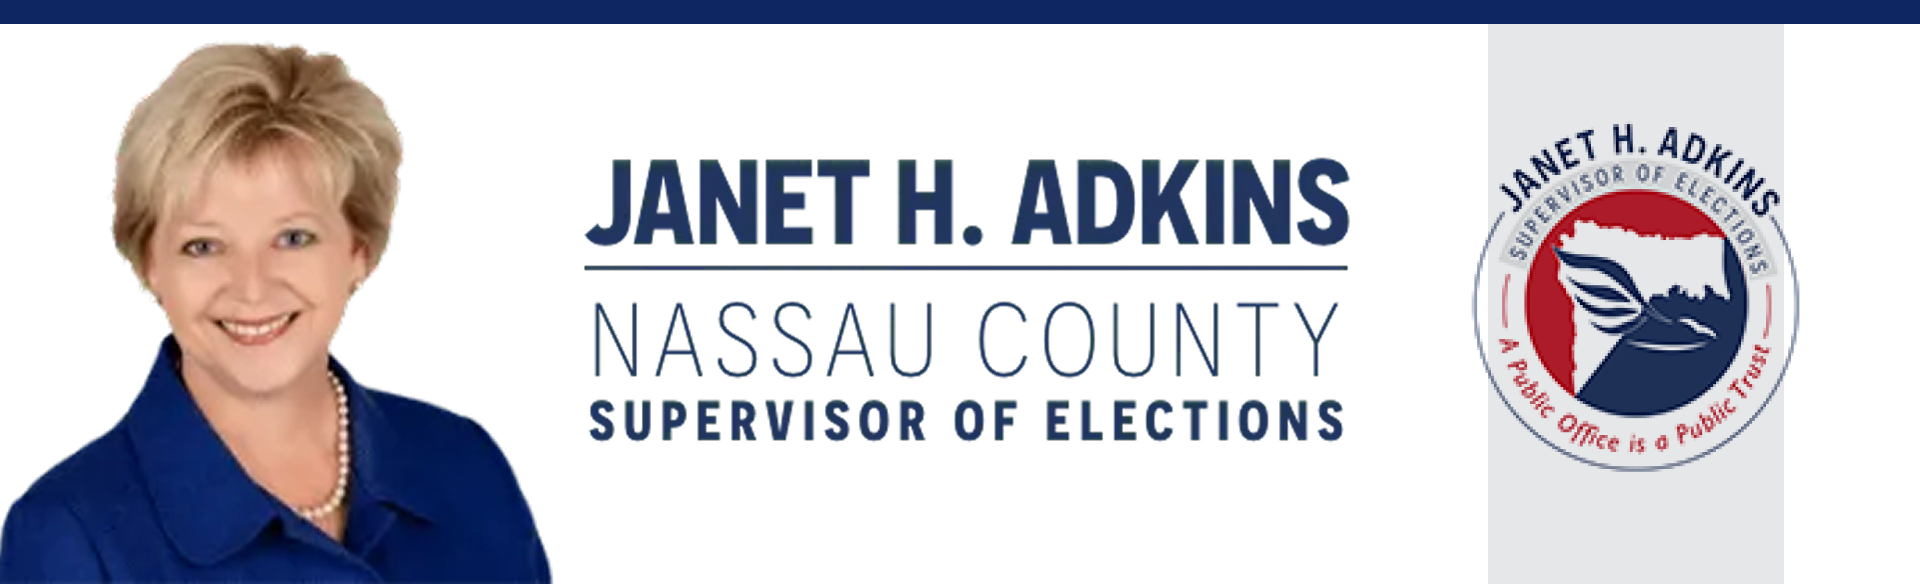
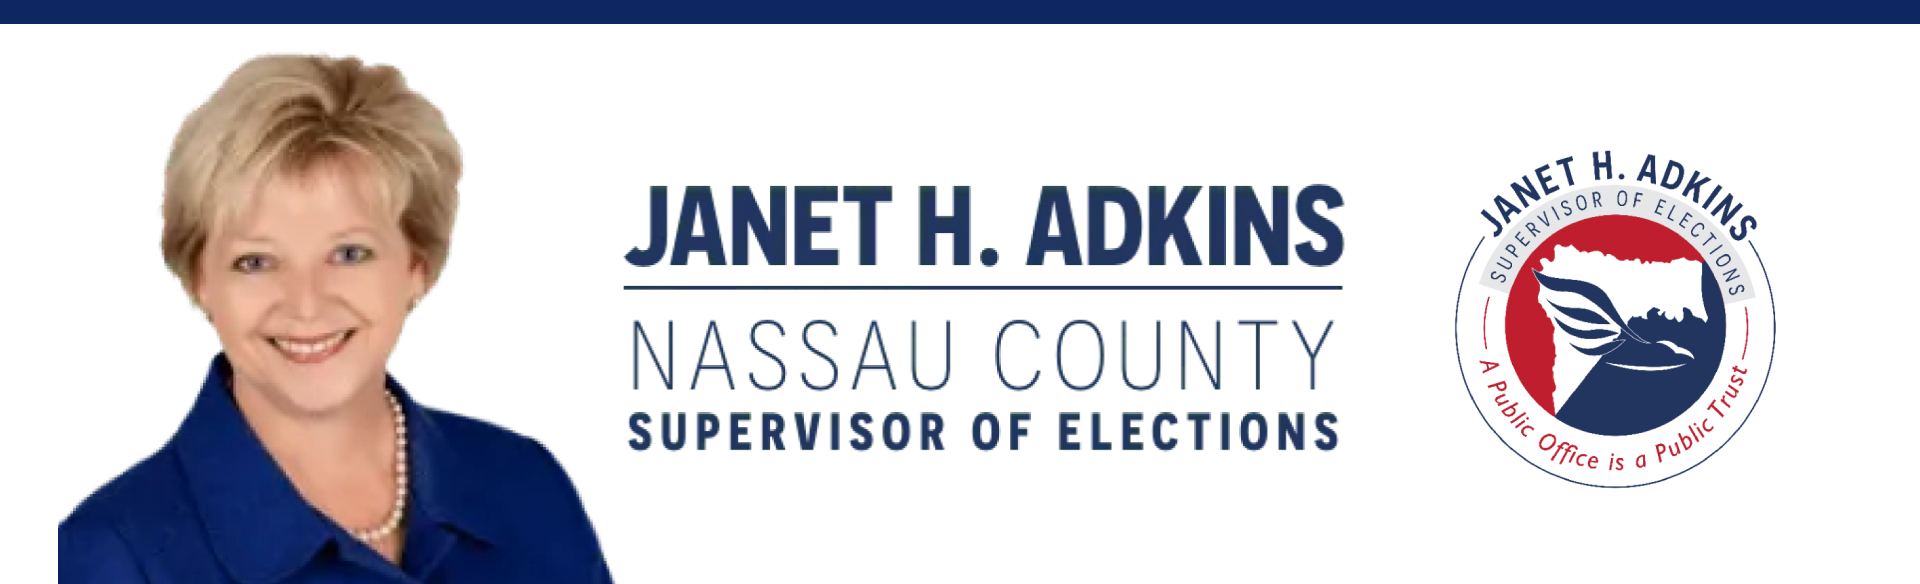
Refactor BannerHeader and Button components for improved styling and code clarity

diff --git a/src/components/BannerHeader.tsx b/src/components/BannerHeader.tsx
@@ -7,8 +7,8 @@ const BannerHeader: React.FC = () => {
   return (
     <View style={styles.container}>
       <ImageBackground
-        style={{ width: '100%', height: 120 }}
-        resizeMode="stretch" source={images.bannerHeader}
+        style={{ width: '100%', aspectRatio: 240 / 73 }}
+        resizeMode="contain" source={images.bannerHeader}
       />
     </View>
   );

diff --git a/src/components/Button.tsx b/src/components/Button.tsx
@@ -1,7 +1,5 @@
 import React from 'react';
-import { View, Text, StyleSheet, TouchableOpacity } from 'react-native';
-import { useNavigation } from '@react-navigation/native';
-import { svgs } from '../constants/images';
+import { Text, StyleSheet, TouchableOpacity } from 'react-native';
 import { Colors } from '../constants/colors';
 
 interface BannerHeaderProps {
